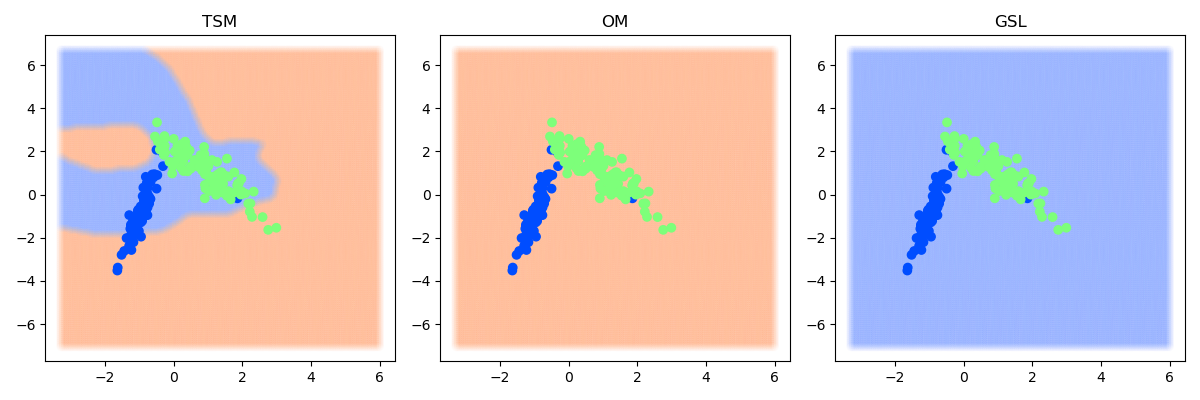
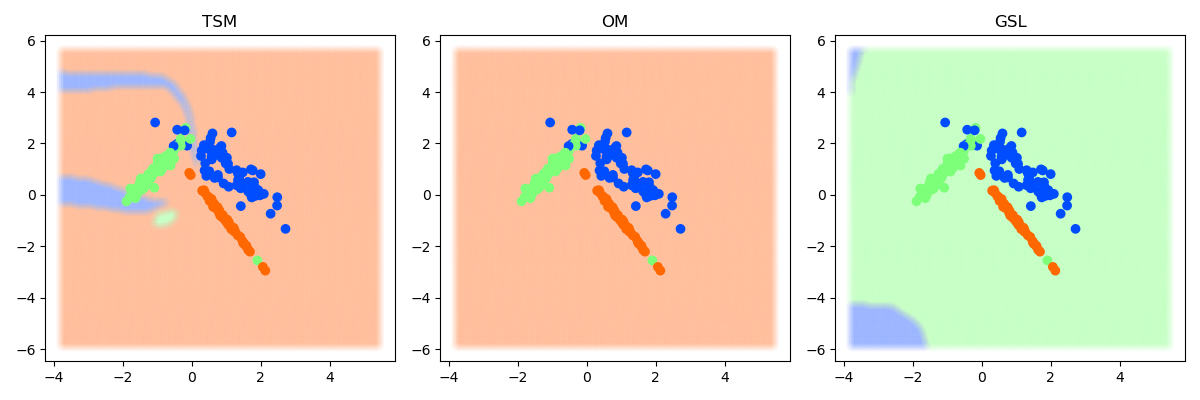
.

diff --git a/graphical.py b/graphical.py
@@ -39,7 +39,7 @@ def ls():
         nn.ReLU(),
         )
 
-X, y = make_classification(n_samples=200, n_features=2, n_informative=2, n_redundant=0, n_repeated=0, n_classes=2, n_clusters_per_class=1)
+X, y = make_classification(n_samples=200, n_features=2, n_informative=2, n_redundant=0, n_repeated=0, n_classes=3, n_clusters_per_class=1)
 base = Make_classification_base(root='data', X=X, y=y)
 
 kkc = [1, 2]
@@ -96,6 +96,8 @@ fig, ax = plt.subplots(1,3,figsize=(12,4))
 
 for m_id, m in enumerate(models):
     aa = m.predict(space)
+    
+    print(np.unique(aa, return_counts=True))
     
     ax[m_id].scatter(space[:,0], space[:,1], c=cols[aa], alpha=0.02)
     ax[m_id].scatter(X[:,0], X[:,1], c=cols[y])
